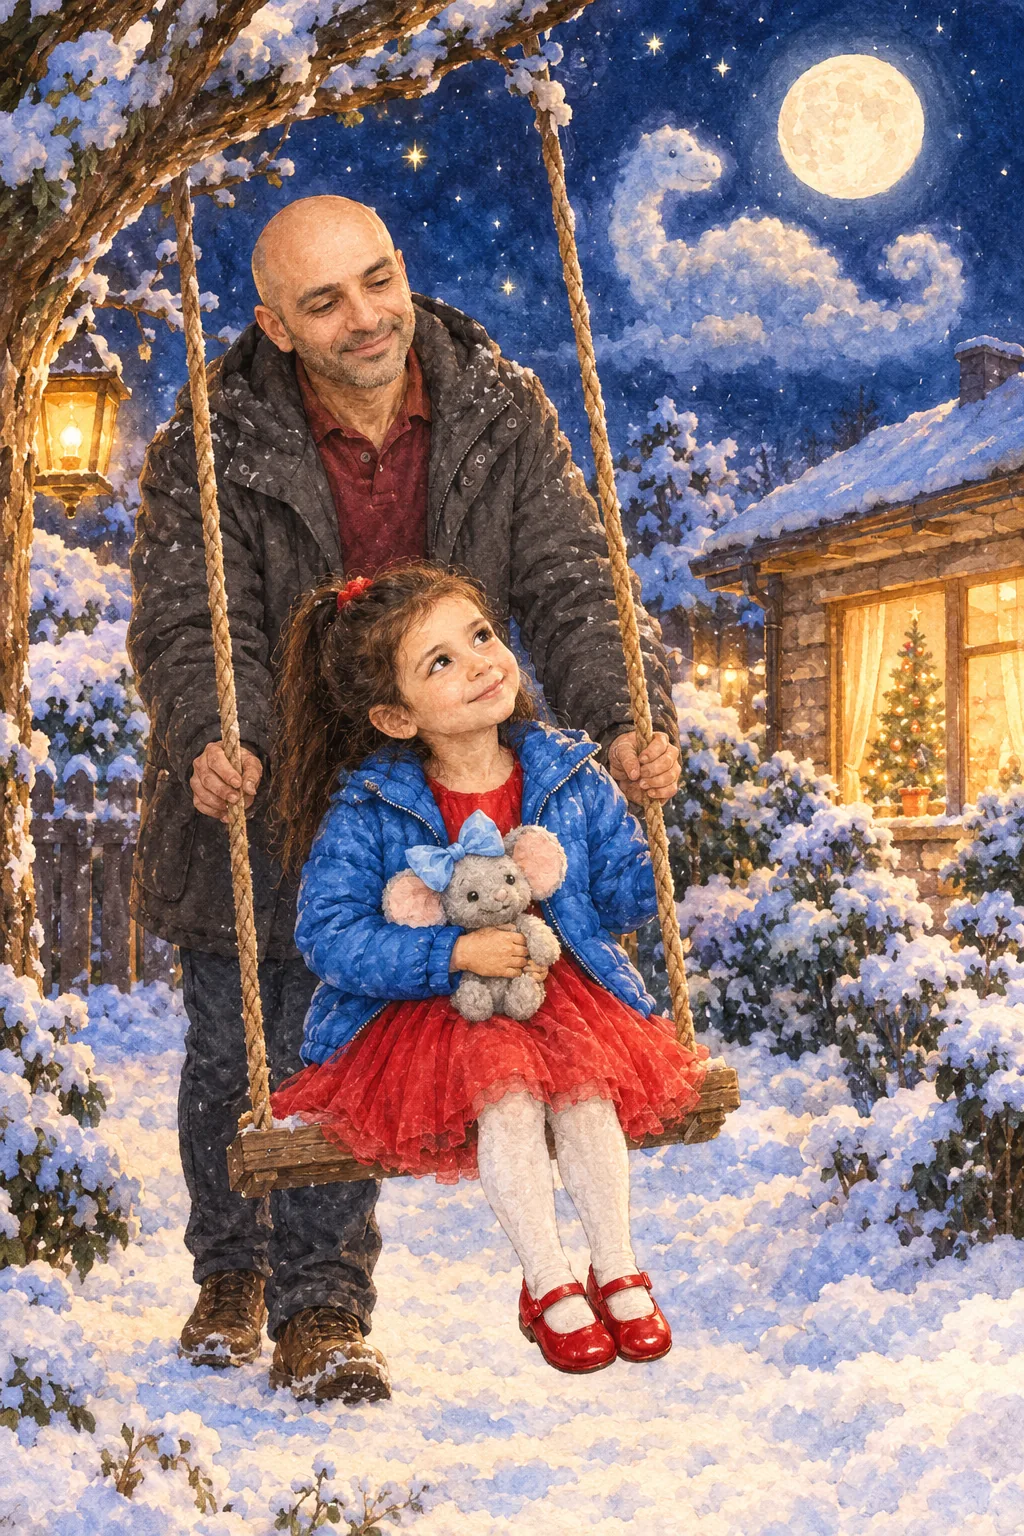
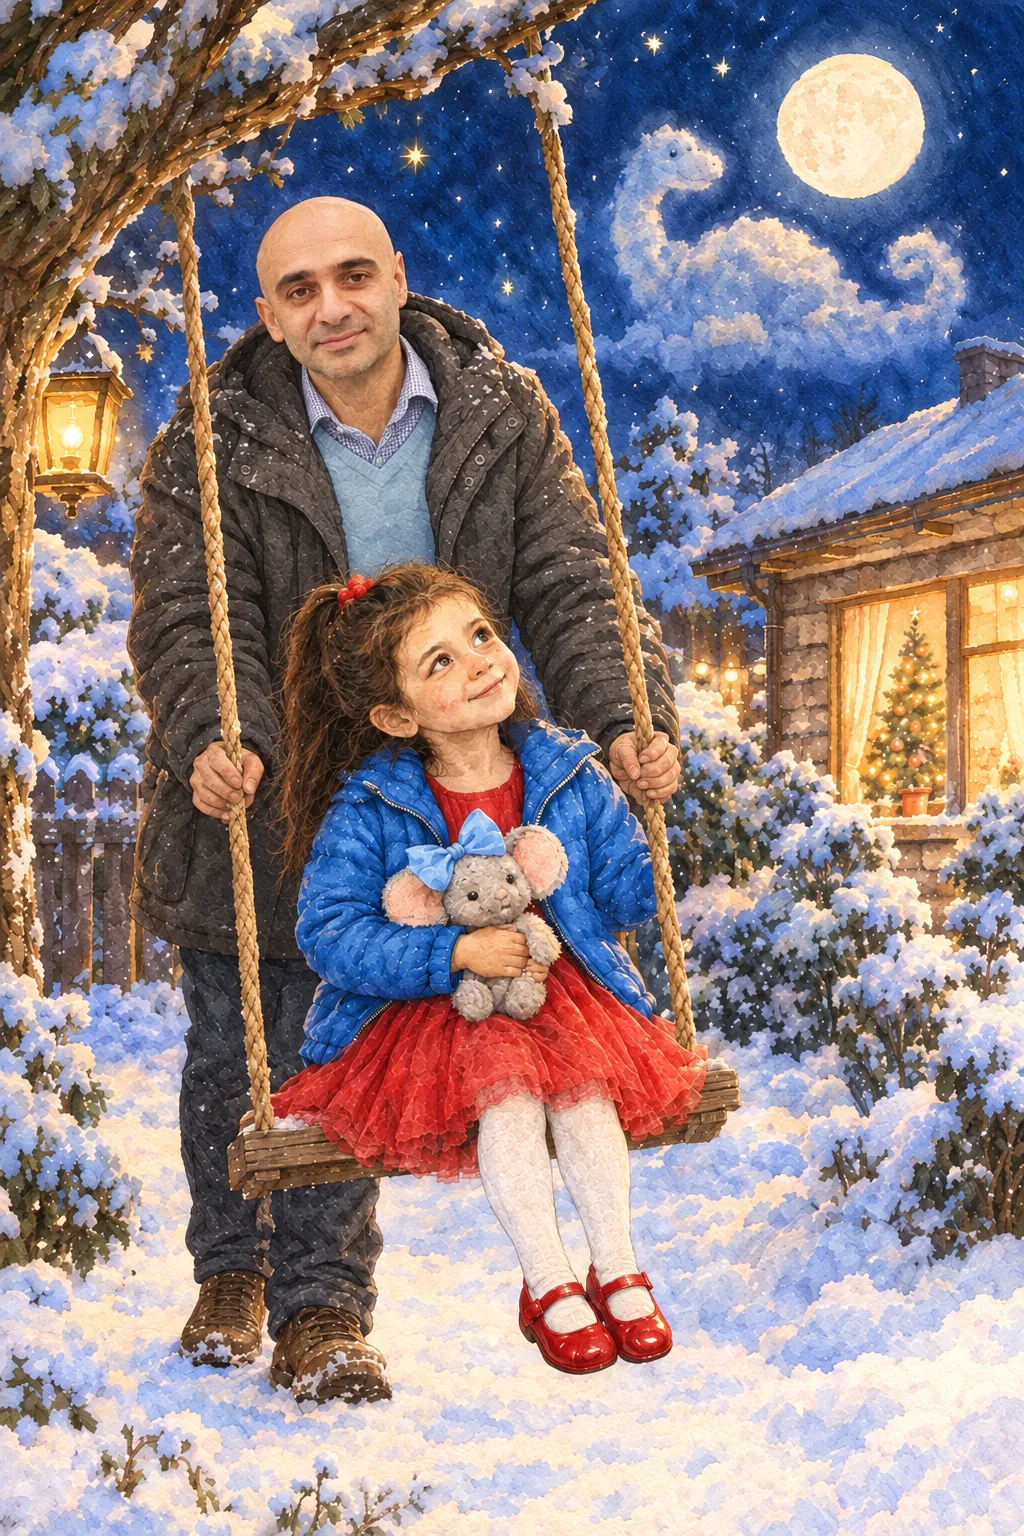
Аделина: стр. 10 — папа перерисован по фото (похож)

diff --git a/assets/examples/adelina/book.js b/assets/examples/adelina/book.js
@@ -984,7 +984,7 @@ window.SKAZKA_ADELINA_BOOK = {
     },
     {
      "t": "image",
-     "src": "assets/examples/adelina/ill-10.webp",
+     "src": "assets/examples/adelina/ill-10.webp?v=2",
      "caption": "Новогодняя ночь: папа качает Аделину на качелях в саду."
     },
     {
